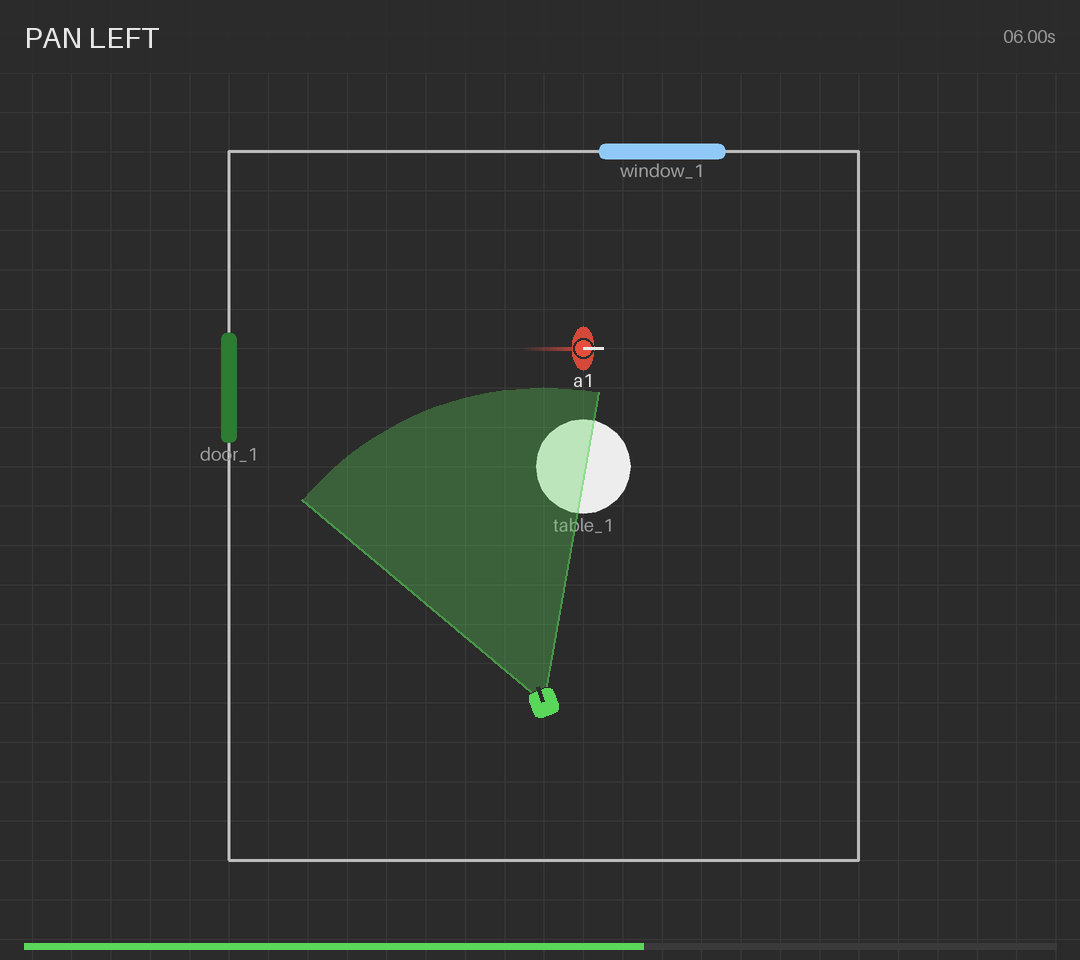
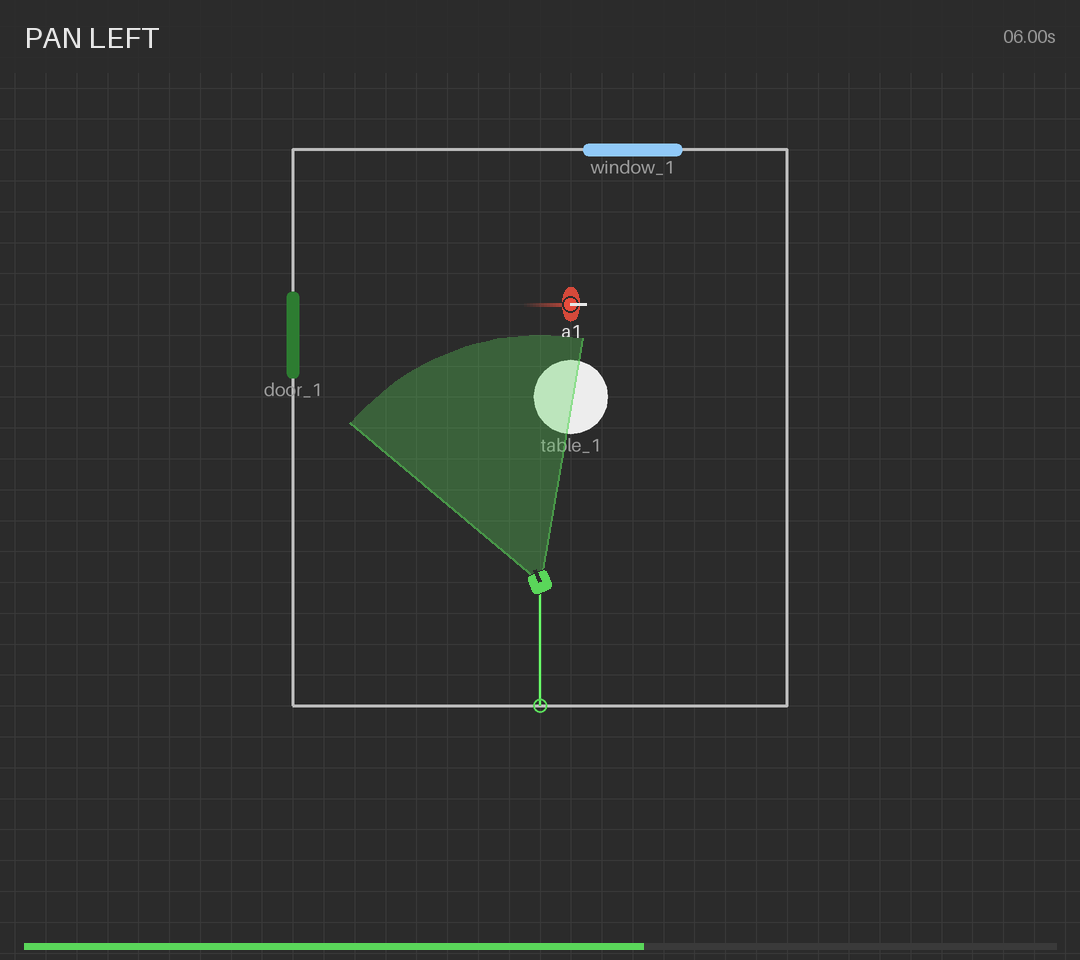
S07: readability pass (full camera path, zoom to action, label placement, visible low-confidence)

diff --git a/godshot/render.py b/godshot/render.py
@@ -57,23 +57,41 @@ class View:
         return [self.px(p[0], p[1], k) for p in points]
 
 
-def scene_bounds(scene: SceneV1, ghost: SceneV1 | None = None) -> tuple[float, float, float, float]:
-    """Bounds of the room outline, objects, camera + actor tracks (and the ghost's camera path)."""
-    pts: list[Sequence[float]] = list(scene.room.outline)
-    for o in scene.objects:
-        pts += object_points(o)
-    for s in [scene, *([ghost] if ghost else [])]:
-        pts += [(k.x, k.y) for k in s.camera.track]
-    for a in scene.actors:
-        pts += [(k.x, k.y) for k in a.track]
+Box = tuple[float, float, float, float]
+
+
+def _bbox(pts: Sequence[Sequence[float]]) -> Box:
     xs, ys = [p[0] for p in pts], [p[1] for p in pts]
     return min(xs), min(ys), max(xs), max(ys)
 
 
-def fit_view(bounds: tuple[float, float, float, float], size: tuple[int, int]) -> View:
+def _area(b: Box) -> float:
+    return max(b[2] - b[0], 1e-6) * max(b[3] - b[1], 1e-6)
+
+
+def scene_bounds(scene: SceneV1, ghost: SceneV1 | None = None) -> Box:
+    """What to fit on screen: the ACTION (camera + actor tracks, and the ghost's camera path) padded by
+    FOCUS_PAD, plus the room outline and objects only if they are at most ROOM_FIT_MAX_RATIO × that area.
+
+    Models often invent a room far larger than where anything happens; fitting it shrinks actors to dots.
+    """
+    cams = [scene, *([ghost] if ghost else [])]
+    core: list[Sequence[float]] = [(k.x, k.y) for s in cams for k in s.camera.track]
+    core += [(k.x, k.y) for a in scene.actors for k in a.track]
+    c = _bbox(core)
+    p = style.FOCUS_PAD
+    focus = (c[0] - p, c[1] - p, c[2] + p, c[3] + p)
+    context = [*scene.room.outline, *(pt for o in scene.objects for pt in object_points(o))]
+    if not context:
+        return focus
+    full = _bbox([*core, *context, focus[:2], focus[2:]])
+    return full if _area(full) <= style.ROOM_FIT_MAX_RATIO * _area(focus) else focus
+
+
+def fit_view(bounds: Box, size: tuple[int, int]) -> View:
     """Fit bounds + 10% margin into the area between header and footer, keeping the aspect ratio."""
     x0, y0, x1, y1 = bounds
-    w, h = max(x1 - x0, 1.0), max(y1 - y0, 1.0)  # never zoom in further than 1 unit across
+    w, h = max(x1 - x0, style.MIN_FIT_SPAN), max(y1 - y0, style.MIN_FIT_SPAN)
     w, h = w * (1 + 2 * style.FIT_MARGIN), h * (1 + 2 * style.FIT_MARGIN)
     area_w, area_h = size[0], size[1] - style.HEADER_PX - style.FOOTER_PX
     scale = min(area_w / w, area_h / h)
@@ -178,6 +196,50 @@ def object_outline(o: Obj) -> list[XY]:
     return rounded_rect(o.center[0], o.center[1], o.size[0], o.size[1], style.OBJ_CORNER, o.rotation_deg)
 
 
+def short_label(entity_id: str) -> str:
+    """'actor_ironman' → 'ironman': map labels drop the type prefix, unless only a number would remain
+    ('actor_1' and 'obj_1' must stay distinguishable)."""
+    for p in style.LABEL_PREFIXES:
+        rest = entity_id[len(p):]
+        if entity_id.lower().startswith(p) and rest and not rest.replace("_", "").isdigit():
+            return rest
+    return entity_id
+
+
+def camera_path(scene: SceneV1) -> list[XY]:
+    return [(k.x, k.y) for k in sorted(scene.camera.track, key=lambda k: k.t)]
+
+
+class LabelPlacer:
+    """Greedy label placement: try each candidate anchor, take the first that overlaps no earlier label."""
+
+    def __init__(self) -> None:
+        self.boxes: list[tuple[float, float, float, float]] = []
+
+    @staticmethod
+    def _hit(a: tuple[float, float, float, float], b: tuple[float, float, float, float]) -> bool:
+        return a[0] < b[2] and b[0] < a[2] and a[1] < b[3] and b[1] < a[3]
+
+    def place(
+        self, d: ImageDraw.ImageDraw, text: str, candidates: Sequence[tuple[float, float, str]],
+        font: ImageFont.FreeTypeFont | ImageFont.ImageFont,
+    ) -> tuple[float, float, str]:
+        boxes = [d.textbbox((x, y), text, font=font, anchor=anc) for x, y, anc in candidates]
+        for cand, box in zip(candidates, boxes, strict=True):
+            if not any(self._hit(box, b) for b in self.boxes):
+                self.boxes.append(box)
+                return cand
+        self.boxes.append(boxes[0])  # everything collides: fall back to the first spot
+        return candidates[0]
+
+    def draw(
+        self, d: ImageDraw.ImageDraw, text: str, candidates: Sequence[tuple[float, float, str]],
+        font: ImageFont.FreeTypeFont | ImageFont.ImageFont, fill: RGBA,
+    ) -> None:
+        x, y, anchor = self.place(d, text, candidates, font)
+        d.text((x, y), text, fill=fill, font=font, anchor=anchor)
+
+
 def _trail(points: Sequence[XY], draw: ImageDraw.ImageDraw, color: str, width: int) -> None:
     """Polyline fading from transparent (oldest) to TRAIL_ALPHA (newest)."""
     n = len(points)
@@ -223,36 +285,56 @@ def render_static(
         ghost_fill = _rgba(style.GHOST, style.GHOST_ALPHA)
         d.line(gpts, fill=ghost_fill, width=style.TRAIL_WIDTH_PX * k, joint="curve")
 
+    # the camera's whole path, always visible (faint), with a ring at the start position
+    path = camera_path(scene)
+    if len(path) >= 2:
+        cpts = view.pts(path, k)
+        d.line(cpts, fill=_rgba(style.CAMERA, style.CAM_PATH_ALPHA), width=style.TRAIL_WIDTH_PX * k // 2 + k,
+               joint="curve")
+        r0 = 7 * k
+        d.ellipse([cpts[0][0] - r0, cpts[0][1] - r0, cpts[0][0] + r0, cpts[0][1] + r0],
+                  outline=_rgba(style.CAMERA, 160), width=2 * k)
+
     font = _font(style.SMALL_FONT_PX * k)
+    placer = LabelPlacer()
     for o in scene.objects:
         poly = view.pts(object_outline(o), k)
         d.polygon(poly, fill=_rgba(obj_color(o), style.OBJ_ALPHA))
         lx = view.px(o.center[0], o.center[1], k)[0]
-        bottom = max(p[1] for p in poly)
-        d.text((lx, bottom + 4 * k), o.id, fill=_rgba(style.TEXT_DIM), font=font, anchor="mt")
+        ys = [p[1] for p in poly]
+        xs = [p[0] for p in poly]
+        my = (min(ys) + max(ys)) / 2
+        candidates = [(lx, max(ys) + 4 * k, "mt"), (lx, min(ys) - 4 * k, "mb"),
+                      (max(xs) + 6 * k, my, "lm"), (min(xs) - 6 * k, my, "rm")]
+        placer.draw(d, short_label(o.id), candidates, font, _rgba(style.TEXT_DIM))
 
     return img.resize(size, Image.Resampling.LANCZOS)
 
 
-def _draw_actor(d: ImageDraw.ImageDraw, view: View, a: Actor, t: float, low: bool) -> None:
+def _draw_actor(
+    d: ImageDraw.ImageDraw, view: View, a: Actor, t: float, low: bool, placer: LabelPlacer
+) -> None:
     trail = [p for p in (interp_actor(a, s) for s in _sample_times(t, style.ACTOR_TRAIL_S)) if p[3]]
     _trail(view.pts(trail), d, a.color, style.TRAIL_WIDTH_PX)
     x, y, facing, visible = interp_actor(a, t)
     if not visible:
         return
-    sw, sd = style.ACTOR_SHOULDER
+    # never smaller than ACTOR_MIN_SHOULDER_PX on screen, however far the view is zoomed out
+    grow = max(1.0, style.ACTOR_MIN_SHOULDER_PX / (style.ACTOR_SHOULDER[0] * view.scale))
+    sw, sd = style.ACTOR_SHOULDER[0] * grow, style.ACTOR_SHOULDER[1] * grow
     body = view.pts(ellipse(x, y, sw, sd, facing))
     d.polygon(body, fill=_rgba(a.color, 230))
     hx, hy = view.px(x, y)
-    hr = style.ACTOR_HEAD_R * view.scale
+    hr = style.ACTOR_HEAD_R * grow * view.scale
     d.ellipse([hx - hr, hy - hr, hx + hr, hy + hr], fill=_rgba(a.color), outline=_rgba(style.BG), width=2)
     fx, fy = heading(facing)
-    nose = view.px(x + fx * (sd / 2 + 0.12), y + fy * (sd / 2 + 0.12))
+    nose = view.px(x + fx * (sd / 2 + 0.12 * grow), y + fy * (sd / 2 + 0.12 * grow))
     d.line([(hx, hy), nose], fill=_rgba(style.TEXT), width=3)
-    label_y = hy + hr + sd * view.scale / 2 + 4
-    d.text((hx, label_y), a.id, fill=_rgba(style.TEXT), font=_font(style.SMALL_FONT_PX), anchor="mt")
+    off = hr + sd * view.scale / 2 + 4
+    candidates = [(hx, hy + off, "mt"), (hx, hy - off, "mb"), (hx + off, hy, "lm"), (hx - off, hy, "rm")]
+    placer.draw(d, short_label(a.id), candidates, _font(style.SMALL_FONT_PX), _rgba(style.TEXT))
     if low:
-        _dashed(d, view.pts(ellipse(x, y, sw * 1.5, sw * 1.5, 0)), _rgba(style.LOWCONF), 2)
+        _dashed(d, view.pts(ellipse(x, y, sw * 1.5, sw * 1.5, 0)), _rgba(style.LOWCONF), 3)
         _badge(d, view.px(x + sw * 0.75, y + sw * 0.75))
 
 
@@ -263,7 +345,10 @@ def _draw_camera(d: ImageDraw.ImageDraw, view: View, scene: SceneV1, t: float, l
     alpha = int(style.FOV_ALPHA * (style.FOV_LOWCONF_FACTOR if low else 1.0))
     wedge = view.pts(fov_wedge(x, y, yaw, scene.camera.hfov_deg, style.FOV_LENGTH))
     d.polygon(wedge, fill=_rgba(style.CAMERA, alpha))
-    d.line([*wedge[1:2], wedge[0], wedge[-1]], fill=_rgba(style.CAMERA, min(255, alpha * 2)), width=2)
+    if low:  # dimmed fill alone is easy to miss on the dark map → dashed amber outline too
+        _dashed(d, wedge, _rgba(style.LOWCONF), 3, dash=14)
+    else:
+        d.line([*wedge[1:2], wedge[0], wedge[-1]], fill=_rgba(style.CAMERA, min(255, alpha * 2)), width=2)
     body = view.pts(rounded_rect(x, y, style.CAM_SIZE, style.CAM_SIZE, style.CAM_SIZE * 0.25, yaw))
     d.polygon(body, fill=_rgba(style.CAMERA), outline=_rgba(style.BG))
     fx, fy = heading(yaw)
@@ -273,7 +358,7 @@ def _draw_camera(d: ImageDraw.ImageDraw, view: View, scene: SceneV1, t: float, l
         _badge(d, view.px(x + style.CAM_SIZE, y + style.CAM_SIZE))
 
 
-def _badge(d: ImageDraw.ImageDraw, at: XY, r: float = 13) -> None:
+def _badge(d: ImageDraw.ImageDraw, at: XY, r: float = style.BADGE_R_PX) -> None:
     d.ellipse([at[0] - r, at[1] - r, at[0] + r, at[1] + r], fill=_rgba(style.LOWCONF))
     d.text(at, "?", fill=_rgba(style.BG), font=_font(int(r * 1.6)), anchor="mm")
 
@@ -289,8 +374,9 @@ def render_overlay(scene: SceneV1, view: View, size: tuple[int, int], t: float) 
             poly = view.pts(object_outline(o))
             _dashed(d, poly, _rgba(style.LOWCONF), 3)
             _badge(d, (max(p[0] for p in poly), min(p[1] for p in poly)))
+    placer = LabelPlacer()
     for a in scene.actors:
-        _draw_actor(d, view, a, t, a.id in low)
+        _draw_actor(d, view, a, t, a.id in low, placer)
     _draw_camera(d, view, scene, t, CAMERA_ID in low)
 
     # header: motion label (left), timestamp (right)

diff --git a/tests/test_render.py b/tests/test_render.py
@@ -60,8 +60,47 @@ def test_view_maps_y_up_and_keeps_aspect():
 
 
 def test_bounds_cover_room_and_tracks(scene_mock):
-    # room is [-4, 4] × [0, 9]; the door (0.2 wide on x=-4) and window (0.2 deep on y=9) stick out 0.1
-    assert render.scene_bounds(scene_mock) == pytest.approx((-4.1, 0.0, 4.0, 9.1))
+    # mock room [-4, 4] × [0, 9] is small next to the action → kept, unioned with the padded action box:
+    # camera (0, 0..2) + actor (x -2.5..2.5, y up to 6.5) ± FOCUS_PAD 2.5; the window sticks out to y=9.1
+    assert render.scene_bounds(scene_mock) == pytest.approx((-5.0, -2.5, 5.0, 9.1))
+
+
+def test_bounds_drop_an_oversized_room(scene_mock):
+    huge = scene_mock.model_copy(deep=True)
+    huge.room.outline = [[-30, -30], [30, -30], [30, 30], [-30, 30]]
+    b = render.scene_bounds(huge)
+    assert b == pytest.approx((-5.0, -2.5, 5.0, 9.0))  # action box only: the room would shrink actors to dots
+
+
+def test_short_label():
+    assert render.short_label("actor_ironman") == "ironman"
+    assert render.short_label("obj_station") == "station"
+    assert render.short_label("door_1") == "door_1"
+    assert render.short_label("actor_") == "actor_"
+    assert render.short_label("actor_1") == "actor_1" and render.short_label("obj_1") == "obj_1"
+
+
+def test_label_placer_avoids_overlap():
+    from PIL import Image, ImageDraw
+
+    d = ImageDraw.Draw(Image.new("RGB", (400, 400)))
+    placer = render.LabelPlacer()
+    cands = [(200, 210, "mt"), (200, 180, "mb"), (240, 195, "lm"), (160, 195, "rm")]
+    font = render._font(18)
+    spots = [placer.place(d, "ironman", cands, font) for _ in range(3)]
+    assert len(set(spots)) == 3  # three labels at the same anchor → three different spots
+    b = placer.boxes
+    assert not any(render.LabelPlacer._hit(b[i], b[j]) for i in range(3) for j in range(i + 1, 3))
+
+
+def test_full_camera_path_always_drawn(scene_mock):
+    # at t=0 the trail is empty, but the faint full path must already show where the camera will go
+    view = render.fit_view(render.scene_bounds(scene_mock), SIZE)
+    img = render.render_frame(scene_mock, 0.0, SIZE)
+    x, y = view.px(0, 1.0)  # on the upcoming dolly path (inside the wedge, so compare against no-path)
+    plain = render.render_frame(scene_mock.model_copy(update={"camera": scene_mock.camera.model_copy(
+        update={"track": scene_mock.camera.track[:1]})}), 0.0, SIZE)
+    assert _green(img.getpixel((round(x), round(y)))) > _green(plain.getpixel((round(x), round(y))))
 
 
 def test_motion_label(scene_mock):

diff --git a/godshot/style.py b/godshot/style.py
@@ -39,6 +39,9 @@ OBJ_FALLBACK = "#78909c"
 # --------------------------------------------------------------------------- geometry (room units)
 GRID_STEP = 0.5
 FIT_MARGIN = 0.10  # 10% around room + tracks
+FOCUS_PAD = 2.5  # action box = camera + actor tracks, padded by this (room units) on every side
+ROOM_FIT_MAX_RATIO = 2.0  # include room/objects in the fit only if ≤ this × the padded action area
+MIN_FIT_SPAN = 3.0  # never zoom in further than this many units across
 FOV_LENGTH = 4.0
 CAM_SIZE = 0.35  # side of the camera's rounded square
 ACTOR_SHOULDER = (0.55, 0.28)  # ellipse width (across) × depth (front-back)
@@ -52,7 +55,8 @@ TRAIL_SAMPLES = 16
 
 # --------------------------------------------------------------------------- opacity (0–255)
 FOV_ALPHA = 80
-FOV_LOWCONF_FACTOR = 0.4  # low-confidence camera → wedge at 40% opacity
+FOV_LOWCONF_FACTOR = 0.4  # low-confidence camera → wedge at 40% opacity (+ dashed amber outline)
+CAM_PATH_ALPHA = 70  # the camera's whole path, always visible (faint)
 TRAIL_ALPHA = 200
 GHOST_ALPHA = 110
 OBJ_ALPHA = 235
@@ -66,3 +70,6 @@ SMALL_FONT_PX = 18
 ROOM_WIDTH_PX = 3
 TRAIL_WIDTH_PX = 4
 SUPERSAMPLE = 2  # static layer is drawn at 2× and downscaled (antialiasing)
+ACTOR_MIN_SHOULDER_PX = 30  # actors never shrink below this on screen (zoomed-out scenes)
+BADGE_R_PX = 16
+LABEL_PREFIXES = ("actor_", "obj_", "object_")  # stripped from ids for on-map labels

diff --git a/.claude/specs/S07-render.md b/.claude/specs/S07-render.md
@@ -45,3 +45,10 @@
 - Auto-fit: the bounds of the room, object extents, camera + actor tracks (and the ghost camera path), plus 10% margin on each side, at least 1 unit across, fitted between the 72 px header and 28 px footer, with the aspect ratio kept.
 - Requires even `size` (yuv420p); odd sizes raise `ValueError`. ffmpeg missing → `RenderError`.
 - Not done: the stretch `MODEL_IMAGE` background (no image model verified yet). Hatch fill for low-confidence entities is a dashed outline only.
+- **Readability pass (2026-11-21), after watching reels of real Argon scenes:**
+  - **Full camera path, always visible:** a faint line (`CAM_PATH_ALPHA` 70) plus a ring at the start position, drawn in the static layer, so it costs nothing per frame. The viewer sees the whole move at a glance instead of decoding a 2 s trail.
+  - **Zoom to the action (deviation from "bounds of the room + all tracks"):** the fit is the camera + actor tracks (+ ghost) padded by 2.5 units. The room outline and objects are included only if that grows the area ≤ 2×. Measured: mock ratio 0.64 (room kept, same look as before); real Argon scenes 4.2–7.2 (the model invents rooms 20–30 units across, which shrank actors to dots). Minimum span is 3 units.
+  - **Actors never shrink below 30 px** across the shoulders on screen.
+  - **Labels:** `short_label` drops `actor_`/`obj_` prefixes (`actor_ironman` → `ironman`, but `actor_1` stays). A greedy `LabelPlacer` tries below/above/right/left and skips spots that overlap earlier labels (objects in the static layer, actors per frame).
+  - **Low-confidence camera:** the wedge is still at 40% opacity (spec) but now also gets a dashed amber outline, because the dimmed fill alone vanished on the dark map. Badges are bigger (r 16 px).
+  - Tests: 23 (bounds with an oversized room, labels, placer overlap, full path drawn at t=0). Speed still ≥ 60 fps (asserted).
